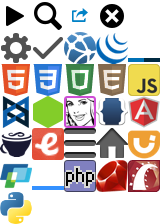
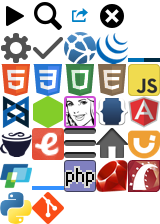
Add Git documentation

Changed region(s): [[0.1875, 0.8438, 0.4062, 1.0]]

diff --git a/assets/stylesheets/global/_icons.scss b/assets/stylesheets/global/_icons.scss
@@ -42,3 +42,4 @@
 ._icon-ruby:before          { background-position: -3rem -5rem; }
 ._icon-rails:before         { background-position: -4rem -5rem; }
 ._icon-python:before        { background-position: 0 -6rem; }
+._icon-git:before           { background-position: -1rem -6rem; }

diff --git a/assets/stylesheets/pages/_git.scss b/assets/stylesheets/pages/_git.scss
@@ -1,0 +1,7 @@
+._git {
+  > h2 { @extend %block-heading; }
+  h3 { font-size: 1rem; }
+  > .callout, > h1 + .sectionbody { @extend %note, %note-green; }
+  code { @extend %label; }
+  em { font-style: normal; }
+}

diff --git a/assets/stylesheets/application.css.scss b/assets/stylesheets/application.css.scss
@@ -31,6 +31,7 @@
         'pages/coffeescript',
         'pages/ember',
         'pages/jquery',
+        'pages/git',
         'pages/less',
         'pages/lodash',
         'pages/mdn',

diff --git a/lib/docs/filters/git/clean_html.rb b/lib/docs/filters/git/clean_html.rb
@@ -1,0 +1,40 @@
+module Docs
+  class Git
+    class CleanHtmlFilter < Filter
+      def call
+        root_page? ? root : other
+        doc
+      end
+
+      def root
+        at_css('h1').content = 'Git'
+      end
+
+      def other
+        css('h1 + h2', '#_git + div', '#_git').remove
+
+        css('> div', 'pre > tt', 'pre > em', 'div.paragraph').each do |node|
+          node.before(node.children).remove
+        end
+
+        css('> h1').each do |node|
+          node.content = node.content.sub(/\(\d\) Manual Page/, '')
+        end
+
+        unless at_css('> h2')
+          css('> h3').each do |node|
+            node.name = 'h2'
+          end
+        end
+
+        css('h2').each do |node|
+          node.content = node.content.capitalize
+        end
+
+        css('tt', 'p > em').each do |node|
+          node.name = 'code'
+        end
+      end
+    end
+  end
+end

diff --git a/lib/docs/scrapers/git.rb b/lib/docs/scrapers/git.rb
@@ -1,0 +1,19 @@
+module Docs
+  class Git < UrlScraper
+    self.type = 'git'
+    self.version = '1.8.5'
+    self.base_url = 'http://git-scm.com/docs'
+    self.initial_paths = %w(/git.html)
+
+    html_filters.push 'git/clean_html', 'git/entries'
+
+    options[:container] = ->(filter) { filter.root_page? ? '#main' : '.man-page' }
+    options[:follow_links] = ->(filter) { filter.root_page? }
+    options[:only_patterns] = [/\A\/git\-/]
+
+    options[:attribution] = <<-HTML
+      &copy; 2005&ndash;2013 Linus Torvalds and others<br>
+      Licensed under the GNU General Public License version 2.
+    HTML
+  end
+end

diff --git a/lib/docs/filters/git/entries.rb b/lib/docs/filters/git/entries.rb
@@ -1,0 +1,9 @@
+module Docs
+  class Git
+    class EntriesFilter < Docs::EntriesFilter
+      def get_name
+        slug.sub '-', ' '
+      end
+    end
+  end
+end
